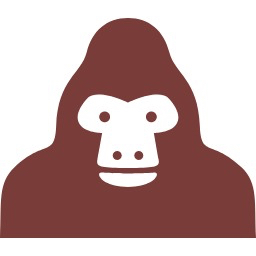
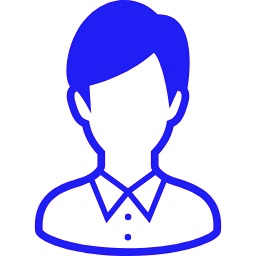
userの画像を更新する機能追加

diff --git a/app/controllers/users_controller.rb b/app/controllers/users_controller.rb
@@ -45,9 +45,21 @@ class UsersController < ApplicationController
   
   def edit
   end
-  
+
+#   :password_confirmation, :favorite_subject, :self_introduction, :image
   def update
-    if @user.update_attributes(user_params)
+    # if @user.update_attributes(user_params)
+    @user.name = params[:user][:name]
+    @user.department = params[:user][:department]
+    @user.favorite_subject = params[:user][:favorite_subject]
+    @user.email = params[:user][:email]
+    @user.self_introduction = params[:user][:self_introduction]
+    @user.password = params[:user][:password]
+    if params[:user][:image]
+      @user.image = "user_#{@user.id}.png"
+      File.binwrite("public/user_images/#{@user.image}", params[:user][:image].read)
+    end  
+    if @user.save
       flash[:success] = "ユーザー情報を更新しました"
       redirect_to @user
     else
@@ -76,7 +88,7 @@ class UsersController < ApplicationController
   private
   
     def user_params
-      params.require(:user).permit(:name, :email, :department, :password, :password_confirmation, :favorite_subject, :self_introduction)
+      params.require(:user).permit(:name, :email, :department, :password, :password_confirmation, :favorite_subject, :self_introduction, :image)
     end
      
     def basic_info_params

diff --git a/app/models/user.rb b/app/models/user.rb
@@ -11,8 +11,6 @@ class User < ApplicationRecord
                     format: { with: VALID_EMAIL_REGEX },
                     uniqueness: true
   validates :department, length: { in: 2..50 }, allow_blank: true
-  validates :basic_time, presence: true
-  validates :work_time, presence: true
   has_secure_password
   validates :password, presence: true, length: { minimum: 6}, allow_nil: true
   
